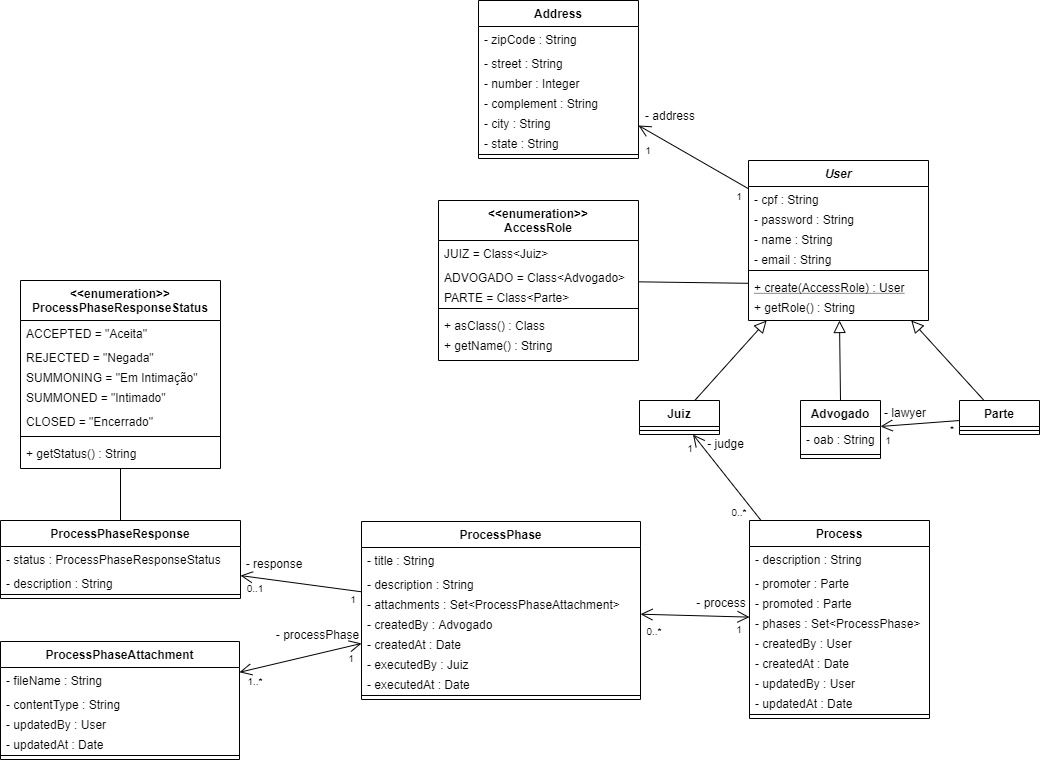
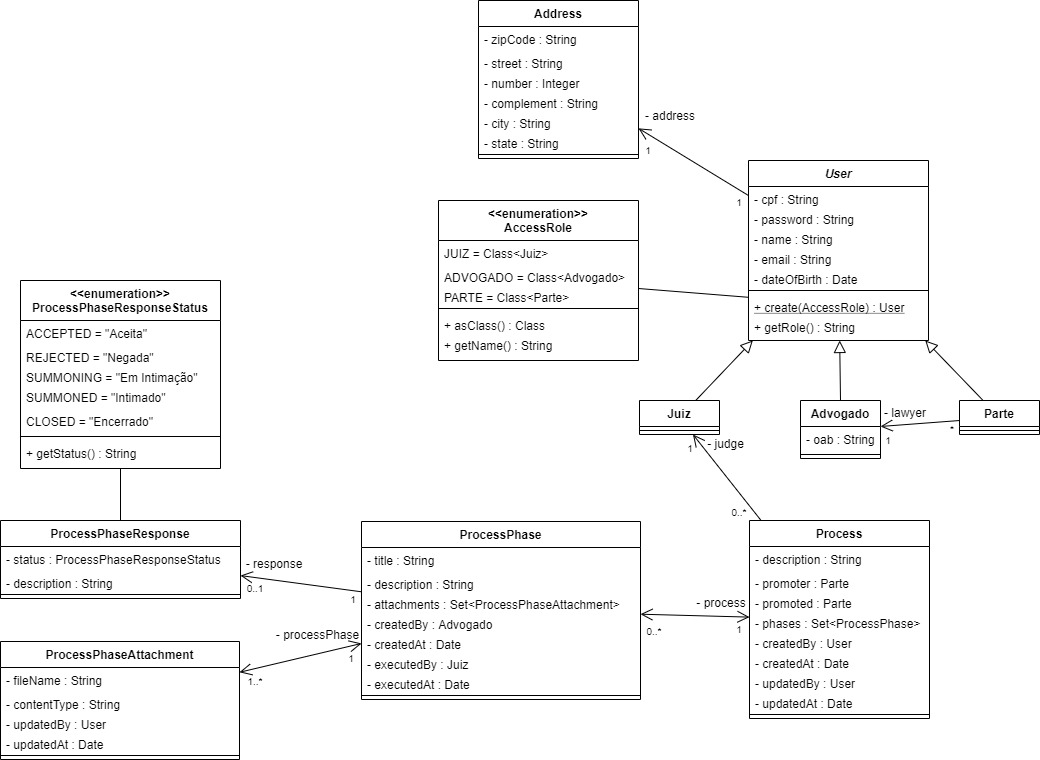
Added attribute 'dateOfBirth' to User entity

diff --git a/sijoga/src/main/java/com/lacussoft/sijoga/model/User.java b/sijoga/src/main/java/com/lacussoft/sijoga/model/User.java
@@ -1,6 +1,7 @@
 package com.lacussoft.sijoga.model;
 
 import java.io.Serializable;
+import java.util.Date;
 import javax.persistence.Column;
 import javax.persistence.DiscriminatorColumn;
 import javax.persistence.Embedded;
@@ -10,6 +11,8 @@ import javax.persistence.Id;
 import javax.persistence.Inheritance;
 import javax.persistence.InheritanceType;
 import javax.persistence.Table;
+import javax.persistence.Temporal;
+import javax.persistence.TemporalType;
 
 @Entity
 @Table(name = "tb_usuarios")
@@ -32,6 +35,10 @@ public abstract class User implements Serializable {
 
     @Column(nullable = false)
     private String email;
+
+    @Temporal(TemporalType.DATE)
+    @Column(name = "data_nasc", nullable = false)
+    private Date dateOfBirth;
 
     @Embedded
     private Address address;
@@ -87,6 +94,14 @@ public abstract class User implements Serializable {
 
     public void setEmail(String email) {
         this.email = email;
+    }
+
+    public Date getDateOfBirth() {
+        return dateOfBirth;
+    }
+
+    public void setDateOfBirth(Date date) {
+        this.dateOfBirth = date;
     }
 
     public Address getAddress() {

diff --git a/sijoga/src/main/java/com/lacussoft/sijoga/model/Parte.java b/sijoga/src/main/java/com/lacussoft/sijoga/model/Parte.java
@@ -1,5 +1,6 @@
 package com.lacussoft.sijoga.model;
 
+import java.util.Date;
 import javax.persistence.Entity;
 import javax.persistence.JoinColumn;
 import javax.persistence.ManyToOne;
@@ -18,6 +19,7 @@ public class Parte extends User {
         super.setPassword(password);
         super.setName("Josnei");
         super.setEmail("josnei@email.com");
+        super.setDateOfBirth(new Date());
         super.setAddress(new Address(
             "80610150", "Rua das Flores", 753,
             "Apartamento 65", "Curitiba", "PR"

diff --git a/sijoga/src/main/java/com/lacussoft/sijoga/model/Advogado.java b/sijoga/src/main/java/com/lacussoft/sijoga/model/Advogado.java
@@ -1,5 +1,6 @@
 package com.lacussoft.sijoga.model;
 
+import java.util.Date;
 import javax.persistence.Column;
 import javax.persistence.Entity;
 
@@ -16,6 +17,7 @@ public class Advogado extends User {
         super.setPassword(password);
         super.setName("Josnei");
         super.setEmail("josnei@email.com");
+        super.setDateOfBirth(new Date());
         super.setAddress(new Address(
             "80610150", "Rua das Flores", 753,
             "Apartamento 65", "Curitiba", "PR"

diff --git a/sijoga/src/main/java/com/lacussoft/sijoga/model/Juiz.java b/sijoga/src/main/java/com/lacussoft/sijoga/model/Juiz.java
@@ -1,5 +1,6 @@
 package com.lacussoft.sijoga.model;
 
+import java.util.Date;
 import javax.persistence.Entity;
 
 @Entity
@@ -12,6 +13,7 @@ public class Juiz extends User {
         super.setPassword(password);
         super.setName("Josnei");
         super.setEmail("josnei@email.com");
+        super.setDateOfBirth(new Date());
         super.setAddress(new Address(
             "80610150", "Rua das Flores", 753,
             "Apartamento 65", "Curitiba", "PR"
